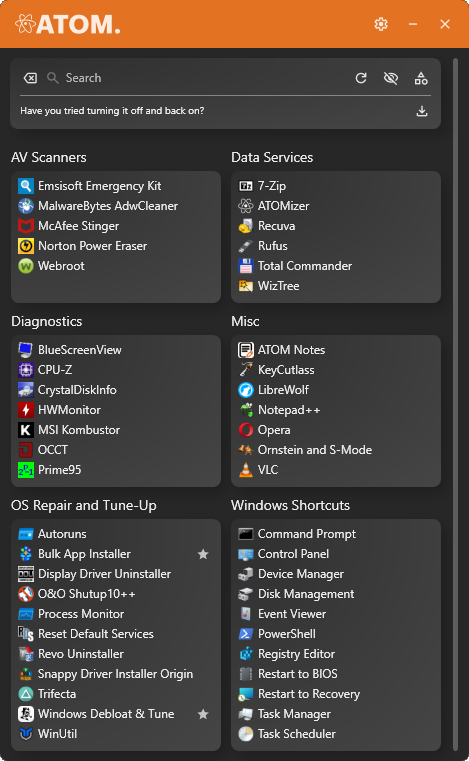
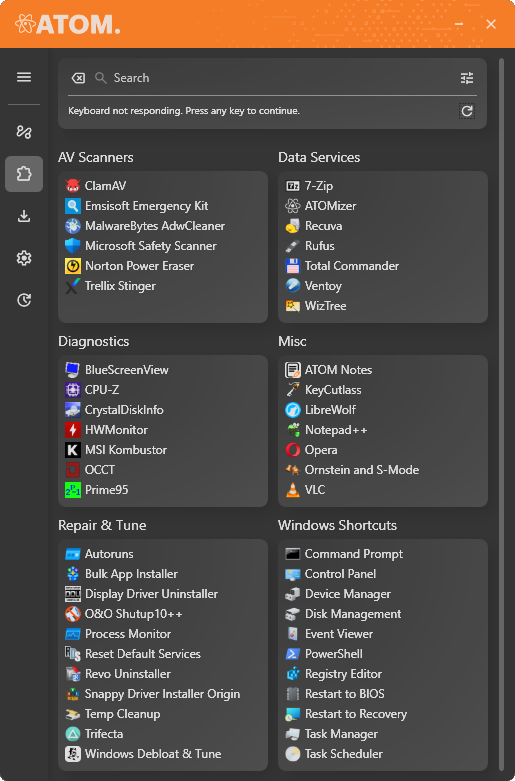
Plugin view options button & README assets
- Condense plugin view options into a single options combobox.
- Update README assets for ATOM and Bulk App Installer.

Changed region(s): [[0.0, 0.0, 0.9851, 0.9974], [0.0299, 0.0, 0.2388, 0.0604], [0.9851, 0.9974, 1.0, 1.0]]

diff --git a/ATOM/Resources/Icons/Common.xaml b/ATOM/Resources/Icons/Common.xaml
@@ -616,4 +616,10 @@
     <PathGeometry x:Key="AutomationIcon20Filled" Figures="M357-291q-46 51-102.5 50.5T156-273q-42-32-57-85.5T120-470l64-103q-19-20-29.5-45T144-672q0-60 42-102t102-42q60 0 102 42t42 102q0 60-42 102t-102 42q-11 0-21.5-2t-21.5-5l-64 103q-19 30-10.5 57.5T201-330q22 17 50.5 17t52.5-26l299-330q46-51 102-51t98 32q42 32 57.5 85.5T840-490l-64 103q19 20 29.5 45t10.5 54q0 60-42 102t-102 42q-60 0-102-42t-42-102q0-60 42-102t102-42q11 0 21.5 2t21.5 5l64-103q19-30 10.5-58T759-631q-22-17-51-16.5T656-621L357-291Z" FillRule="Nonzero">
         <PathGeometry.Transform><MatrixTransform Matrix="0.025,0,0,0.025,0,24"/></PathGeometry.Transform>
     </PathGeometry>
+    <PathGeometry x:Key="TuneIcon" Figures="M440-120v-240h80v80h320v80H520v80h-80Zm-320-80v-80h240v80H120Zm160-160v-80H120v-80h160v-80h80v240h-80Zm160-80v-80h400v80H440Zm160-160v-240h80v80h160v80H680v80h-80Zm-480-80v-80h400v80H120Z" FillRule="Nonzero">
+        <PathGeometry.Transform><MatrixTransform Matrix="0.025,0,0,0.025,0,24"/></PathGeometry.Transform>
+    </PathGeometry>
+    <PathGeometry x:Key="TuneIcon20" Figures="M456-144v-240h72v84h288v72H528v84h-72Zm-312-84v-72h240v72H144Zm144-132v-84H144v-72h144v-84h72v240h-72Zm144-84v-72h384v72H432Zm144-132v-240h72v84h168v72H648v84h-72Zm-432-84v-72h384v72H144Z" FillRule="Nonzero">
+        <PathGeometry.Transform><MatrixTransform Matrix="0.025,0,0,0.025,0,24"/></PathGeometry.Transform>
+    </PathGeometry>
 </ResourceDictionary>
